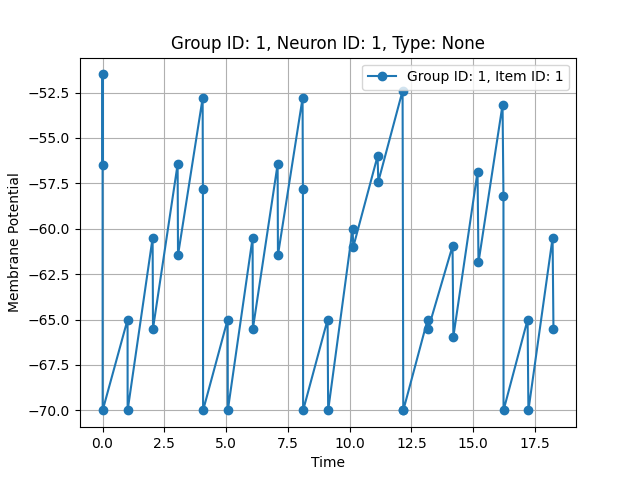
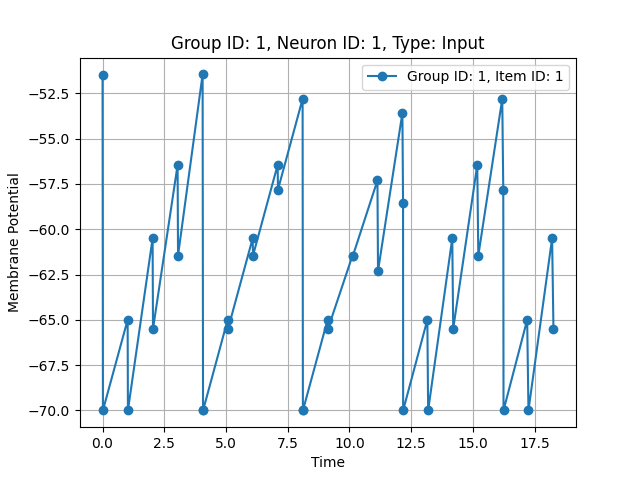
insert message into correct location in message list

diff --git a/src/neuron.cpp b/src/neuron.cpp
@@ -2,6 +2,7 @@
 #include "functions.hpp"
 #include "log.hpp"
 
+#include <iterator>
 #include <pthread.h>
 #include <unistd.h>
 
@@ -397,9 +398,23 @@ bool Neuron::is_activated() const { return this->active; }
 NeuronGroup *Neuron::get_group() { return this->group; }
 
 void Neuron::add_message(Message *message) {
-  pthread_mutex_lock(&message_mutex);
-  this->messages.push_back(message);
-  pthread_mutex_unlock(&message_mutex);
+  if (this->messages.empty()) {
+    pthread_mutex_lock(&message_mutex);
+    this->messages.push_back(message);
+    pthread_mutex_unlock(&message_mutex);
+  } else {
+
+    list<Message *>::const_iterator it = this->messages.begin();
+
+    while (it != this->messages.end() &&
+           message->timestamp > (*it)->timestamp) {
+      it++;
+    }
+
+    pthread_mutex_lock(&message_mutex);
+    this->messages.insert(it, message);
+    pthread_mutex_unlock(&message_mutex);
+  }
 }
 
 Message *Neuron::get_message() {
@@ -478,3 +493,4 @@ void Neuron::update_potential(double value) {
   this->membrane_potential += value;
   pthread_mutex_unlock(&potential_mutex);
 }
+const list<Message *> &Neuron::get_message_vector() { return this->messages; }

diff --git a/src/neuron_group.cpp b/src/neuron_group.cpp
@@ -54,6 +54,28 @@ void *NeuronGroup::group_run() {
         lg.log_group_neuron_state(DEBUG2, "Running (%d) Neuron (%d)",
                                   this->get_id(), neuron->get_id());
 
+        if (DEBUG_LEVEL >= DEBUG4) {
+          bool sorted = true;
+          auto messages = neuron->get_message_vector();
+          double timestamp;
+          if (!messages.empty()) {
+            timestamp = messages.front()->timestamp;
+          }
+          for (auto message : messages) {
+            if (timestamp > message->timestamp) {
+              lg.log(ERROR, "Message list not sorted");
+              sorted = false;
+            }
+            print_message(message);
+            timestamp = message->timestamp;
+          }
+          if (sorted) {
+            lg.log_group_neuron_state(
+                DEBUG4, "Message list for (%d) Neruon %d is sorteded",
+                neuron->get_group()->get_id(), neuron->get_id());
+          }
+        }
+
         // Run neuron
         neuron->run_in_group();
       }

diff --git a/src/neuron.hpp b/src/neuron.hpp
@@ -103,6 +103,7 @@ public:
   Neuron_t get_type() { return this->type; }
   int get_id() { return id; }
   double get_potential() { return membrane_potential; }
+  const list<Message *> &get_message_vector();
   const weight_map *get_presynaptic() const;
   const weight_map *get_postsynaptic() const;
   NeuronGroup *get_group();

diff --git a/plotting/main.py b/plotting/main.py
@@ -1,7 +1,7 @@
 import matplotlib.pyplot as plt
 
 data = []
-with open('../logs/1710861766/1710861766.log', 'r') as file:
+with open('../logs/1710877494/1710877494.log', 'r') as file:
     for line in file:
         parts = line.split()
         group_id = int(parts[0])
